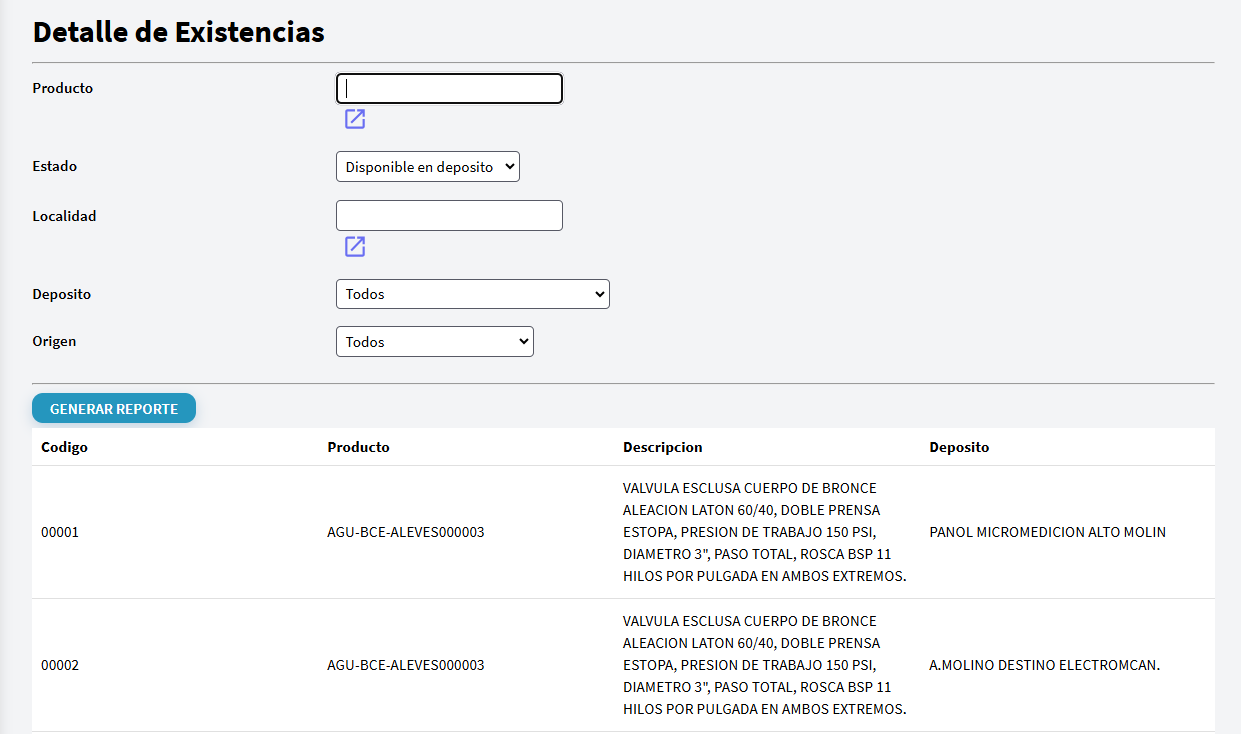
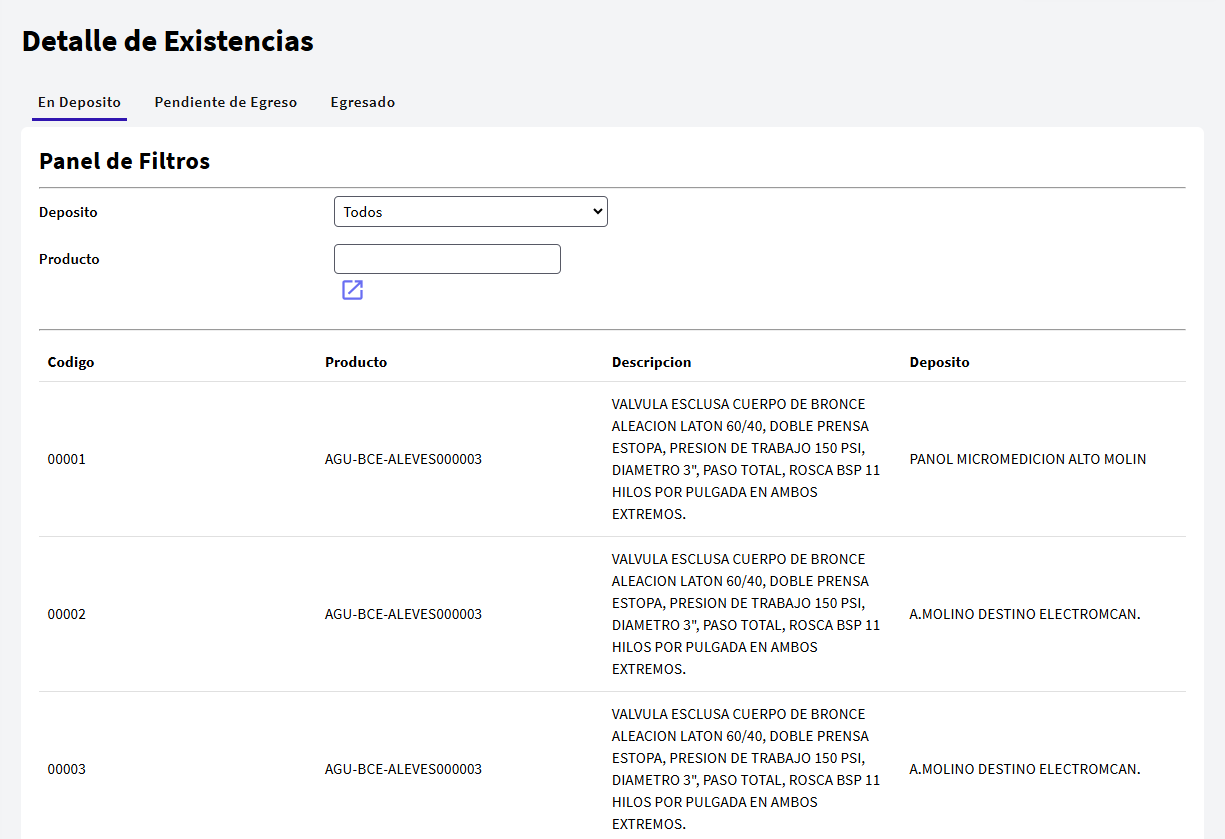
Modificacion de pantalla Ver Detalles; Agregado de pantalla de Devoluciones;

diff --git a/sidebars.js b/sidebars.js
@@ -14,11 +14,16 @@ module.exports = {
       type: 'category',
       label: 'Abastecimiento',
       items: [
-        'existencias/index',
+        'existencias/existencias',
         'existencias/relevar',
         'existencias/egresar',
         'existencias/ver-detalles',
       ],
+    },
+    {
+      type: 'doc',
+      id: 'devoluciones',
+      label: 'Devoluciones',
     },
   ],
 };

diff --git a/docs/existencias/ver-detalles.md b/docs/existencias/ver-detalles.md
@@ -3,36 +3,130 @@ sidebar_position: 4
 title: Ver detalles
 ---
 
-# Ver detalles de productos
+# Ver Detalles
 
-La funcionalidad **Ver detalles** permite consultar información más específica sobre los productos registrados en el sistema.
+La funcionalidad **Ver Detalles** permite consultar información detallada sobre las existencias registradas en el sistema.
 
-Desde esta pantalla se pueden obtener reportes relacionados con productos disponibles, egresados o pendientes de egreso.
+A través de esta pantalla, el usuario puede visualizar el estado actual de los productos  mediante distintos criterios de búsqueda y filtrado.
 
-## Objetivo
+## Acceso a la pantalla
 
-El objetivo de esta funcionalidad es facilitar la búsqueda y consulta detallada de productos, permitiendo conocer su estado, ubicación y origen de carga.
+Para acceder a esta funcionalidad, el usuario debe ingresar a la sección **Existencias** y seleccionar la opción **Ver Detalles**, ubicada en la parte superior derecha de la pantalla.
+
+![Acceso a pantalla de egreso](/img/ver-detalles/1.png)
+
+Una vez seleccionada la opción, el sistema muestra la pantalla **Detalle de Existencias**, desde la cual es posible consultar productos registrados en los distintos estados contemplados por el sistema.
+
+![Pantalla ver detalles](/img/ver-detalles/2.png)
+
+
+## Estados de consulta
+
+La búsqueda de información se encuentra organizada en tres pestañas, cada una correspondiente a un estado diferente de las unidades de productos.
+
+* **En Depósito**
+* **Pendiente de Egreso**
+* **Egresado**
+
+
+# En Depósito
+
+La pestaña **En Depósito** permite consultar los productos que actualmente se encuentran disponibles dentro de los depósitos registrados en el sistema.
+
+Al ingresar a esta pestaña, el sistema muestra por defecto todas las existencias disponibles en todos los depósitos.
+
+![En deposito](/img/ver-detalles/3.png)
 
 ## Filtros disponibles
 
-La pantalla permite aplicar distintos filtros para mejorar la búsqueda de información.
+### Depósito
 
-Entre los filtros disponibles se encuentran:
+Permite limitar la consulta a un depósito específico.
 
-| Filtro | Descripción |
-|---|---|
-| Localidad | Permite buscar productos según la localidad donde se encuentran. |
-| Depósito | Permite filtrar productos según el depósito asociado. |
-| Origen de carga | Permite distinguir si el producto fue ingresado desde el sistema América o relevado en el nuevo sistema. |
+Al seleccionar un depósito, el sistema mostrará únicamente las unidades de productos que se encuentren disponibles en dicho depósito.
 
-## Estados consultables
+### Producto
 
-Desde esta sección se pueden consultar productos en distintos estados:
+Permite buscar un producto específico mediante su código o descripción.
 
-- Productos disponibles en depósito.
-- Productos egresados.
-- Productos pendientes de egreso.
+Al aplicar este filtro, el sistema mostrará únicamente las existencias correspondientes al producto seleccionado.
 
-## Resultado esperado
+##
 
-Al aplicar los filtros correspondientes, el sistema muestra los productos que cumplen con los criterios seleccionados, permitiendo obtener una vista más precisa del inventario.
+---
+
+# Pendiente de Egreso
+
+La pestaña **Pendiente de Egreso** permite consultar las unidades de productos que ya fueron seleccionadas para ser asignadas a una ubicación, pero cuyo egreso aún no fue confirmado.
+
+Al ingresar a esta pestaña, el sistema muestra todas las unidades que se encuentran actualmente en estado **Pendiente de Egreso**, indicando además el depósito de origen de cada una de ellas.
+
+![Pendiente de Egreso](/img/ver-detalles/4.png)
+
+
+## Filtros disponibles
+
+### Depósito
+
+Permite visualizar únicamente las unidades pendientes de egreso que provienen de un depósito determinado.
+
+### Producto
+
+Permite consultar únicamente las unidades pendientes de egreso correspondientes a un producto específico.
+
+---
+
+# Egresado
+
+La pestaña **Egresado** permite consultar las unidades de productos que ya fueron asignadas a una ubicación dentro de la organización.
+
+Estas ubicaciones pueden corresponder a oficinas o fuentes de abastecimiento.
+
+Al ingresar a esta pestaña, el sistema selecciona por defecto el tipo de ubicación **Oficina** y la opción **Todas las oficinas**, mostrando todas las unidades que se encuentran actualmente egresadas junto con la ubicación a la que fueron asignadas.
+
+
+![Egresado](/img/ver-detalles/5.png)
+
+## Filtros disponibles
+
+### Tipo de ubicación
+
+Permite filtrar los resultados según el destino asignado al producto.
+
+Las opciones disponibles son:
+
+* **Oficina**
+* **Fuente de Abastecimiento**
+
+#### Oficina
+
+Al seleccionar esta opción, el sistema muestra el organigrama institucional para permitir la selección de una oficina específica.
+
+Una vez seleccionada la oficina, se mostrarán únicamente las unidades asignadas a dicha dependencia.
+
+#### Fuente de Abastecimiento
+
+Al seleccionar esta opción, el sistema habilita el campo **Fuente**, desde el cual es posible buscar y seleccionar una fuente de abastecimiento determinada.
+
+El resultado mostrará únicamente las unidades asignadas a la fuente seleccionada.
+
+### Origen
+
+Permite filtrar la información según el mecanismo mediante el cual las unidades fueron incorporadas al sistema.
+
+Las opciones disponibles permiten identificar si la información proviene de:
+
+* Productos registrados mediante los procesos habituales de gestión de inventario.
+* Productos incorporados mediante relevamientos realizados dentro del sistema.
+
+### Producto
+
+Permite consultar únicamente las unidades egresadas correspondientes a un producto específico.
+
+---
+
+## Consideraciones
+
+Se recomienda utilizar los filtros disponibles para reducir la cantidad de resultados y facilitar la localización de información específica.
+
+La funcionalidad **Ver Detalles** constituye la principal herramienta de consulta del sistema, permitiendo obtener una visión completa del estado y ubicación de las existencias registradas.

diff --git a/docs/devoluciones.md b/docs/devoluciones.md
@@ -1,0 +1,136 @@
+---
+sidebar_position: 4
+title: Devoluciones
+---
+
+# Devoluciones
+
+La funcionalidad **Devoluciones** permite completar el proceso de devolución de unidades de productos a un depósito.
+
+A diferencia de un registro de devolución convencional, esta funcionalidad permite identificar de manera precisa qué unidad fue devuelta y desde qué ubicación proviene, ya sea una **oficina** o una **fuente de abastecimiento**.
+
+El objetivo principal es mantener la trazabilidad de las existencias, registrando el recorrido completo de cada unidad desde su egreso hasta su posterior devolución a depósito.
+
+## Acceso a la pantalla
+
+Para acceder a esta funcionalidad, el usuario debe seleccionar la opción **Devoluciones** en el menú lateral del sistema.
+
+Al ingresar, el sistema muestra un listado de las devoluciones registradas, indicando su estado actual.
+
+Las devoluciones pueden encontrarse en alguno de los siguientes estados:
+
+- **Pendiente:** requiere completar la identificación de las unidades devueltas.
+- **Completada:** la devolución ya fue registrada en su totalidad y se encuentra disponible únicamente para consulta.
+
+![Pantalla de devoluciones](/img/devoluciones/1.png)
+
+Para continuar con una devolución pendiente, el usuario debe seleccionar el botón **Detalle** correspondiente al registro deseado.
+
+Una vez seleccionada la opción, el sistema muestra la pantalla de detalle de devolución, desde donde se gestionan los productos y unidades involucradas.
+
+![Pantalla de detalle de devolucion](/img/devoluciones/2.png)
+
+## Selección del producto
+
+En la sección **Productos Pendientes de Devolución**, se muestran los productos para los cuales aún existen unidades pendientes de identificar.
+
+El primer paso consiste en seleccionar el producto cuya devolución se desea completar.
+
+Al hacerlo, el sistema abre una ventana donde se visualiza información relacionada con las unidades pendientes de devolución.
+
+En esta pantalla se muestra:
+
+- Código del producto.
+- Descripción del producto.
+- Depósitos disponibles para recibir la devolución.
+- Cantidad pendiente total.
+- Cantidad pendiente por depósito.
+- Cantidad seleccionada para cada depósito.
+
+![Ventana de seleccion de unidades](/img/devoluciones/3.png)
+
+Esta información permite controlar el avance del proceso y verificar cuántas unidades faltan asignar a cada depósito.
+
+## Selección del depósito de destino
+
+Dentro de la ventana de detalle, se presenta un listado con los depósitos que recibirán las unidades devueltas.
+
+![Ventana de seleccion de unidades](/img/devoluciones/4.png)
+
+Para continuar, el usuario debe seleccionar uno de los depósitos disponibles.
+
+Al hacerlo, el sistema muestra las unidades que pueden ser asociadas a dicho depósito, asi como la cantidad de unidades pendientes de identificar.
+
+![Ventana de seleccion de unidades](/img/devoluciones/5.png)
+
+## Identificación de las unidades devueltas
+
+Una vez seleccionado el depósito, el sistema presenta el listado de unidades disponibles para completar la devolución.
+
+Cada registro indica la ubicación actual de la unidad antes de ser devuelta, permitiendo identificar exactamente cuál fue la unidad que retornó al depósito.
+
+Por ejemplo, como se puede ver en la imagen anterior, existen dos unidades del mismo producto:
+
+- Una ubicada en el área de **Planificación**.
+- Otra ubicada en el área de **Sistemas**.
+
+El usuario deberá indicar cuál de ellas fue efectivamente devuelta al depósito seleccionado.
+
+Para ello, debe marcar la unidad correspondiente dentro de la lista, por ejemplo, la de Sistemas.
+
+![Ventana de seleccion de unidades](/img/devoluciones/6.png)
+
+## Control de cantidades por depósito
+
+El sistema controla automáticamente la cantidad máxima de unidades que pueden asignarse a cada depósito.
+
+Cuando se alcanza la cantidad pendiente correspondiente a un depósito, no será posible seleccionar unidades adicionales para dicho destino.
+
+En ese caso, el usuario deberá continuar con el siguiente depósito pendiente hasta completar la asignación de todas las unidades devueltas.
+
+A medida que se realizan las selecciones, el sistema actualiza automáticamente las cantidades pendientes y seleccionadas.
+
+![Ventana de seleccion de unidades](/img/devoluciones/7.png)
+
+## Cambios realizados
+
+Las unidades seleccionadas se incorporan automáticamente a la sección **Cambios Realizados**.
+
+En esta sección es posible visualizar:
+
+- La ubicación previa de cada unidad.
+- El depósito al que fue devuelta.
+- El producto asociado.
+
+![Ventana de seleccion de unidades](/img/devoluciones/8.png)
+
+Esta información permite revisar el resultado de la operación antes de confirmar los cambios.
+
+## Modificación de selecciones
+
+Mientras la devolución no haya sido confirmada, es posible modificar las unidades seleccionadas.
+
+Para ello, el usuario puede volver a seleccionar cualquiera de los productos ubicados en la sección **Productos Pendientes de Devolución**.
+
+El sistema mostrará las unidades previamente marcadas, permitiendo:
+
+- Quitar selecciones existentes.
+- Seleccionar unidades diferentes.
+- Reasignar unidades a los depósitos correspondientes.
+
+## Confirmar devolución
+
+Una vez verificadas todas las unidades devueltas, el usuario debe presionar el botón **Guardar**.
+
+Al confirmar la operación, el sistema registra definitivamente la devolución y actualiza la ubicación de las unidades seleccionadas, asociándolas al depósito correspondiente.
+
+## Consideraciones
+
+Antes de confirmar la devolución, se recomienda verificar que:
+
+- Las unidades seleccionadas correspondan efectivamente a las devueltas.
+- Cada unidad haya sido asociada al depósito correcto.
+- No existan cantidades pendientes sin asignar.
+- La información mostrada en la sección **Cambios Realizados** sea correcta.
+
+Una vez guardada la devolución, las unidades quedarán registradas en el depósito correspondiente y la operación pasará al estado **Completada**.
